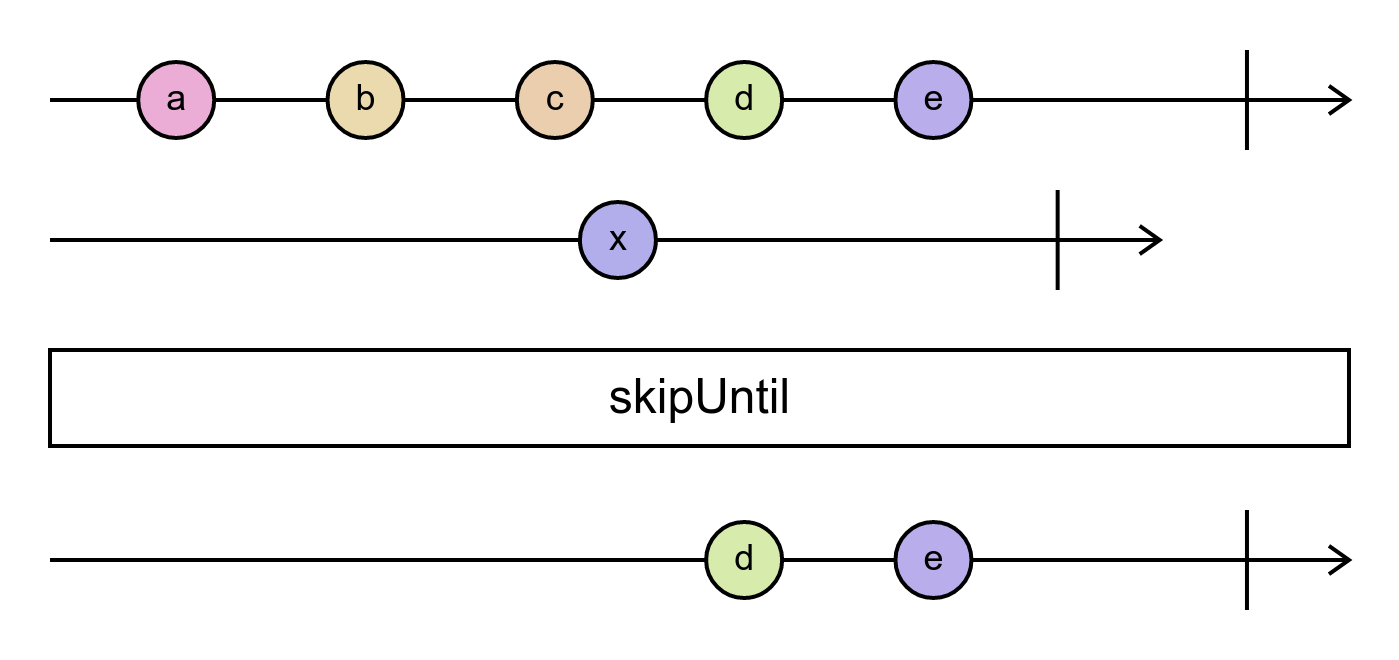
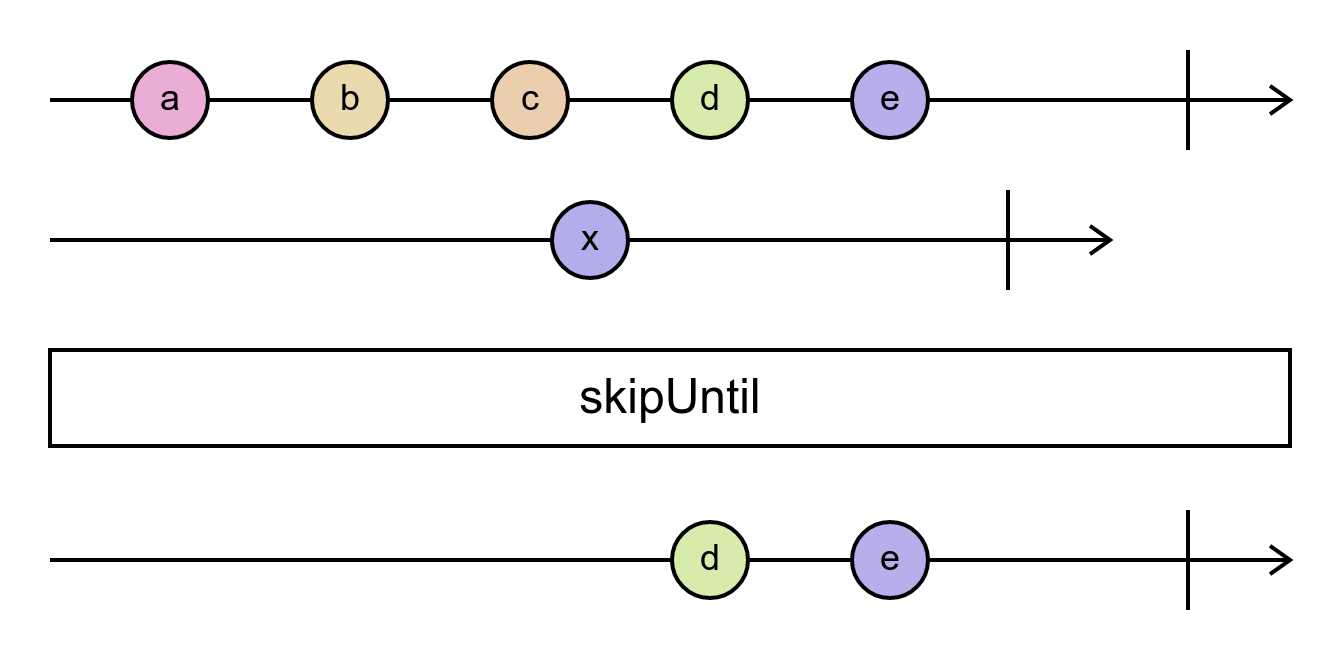
Fix higher-order scale

diff --git a/lib/draw/stream-factory.js b/lib/draw/stream-factory.js
@@ -30,8 +30,8 @@ const createDrawStream = drawMessage => (ctx, isHigherOrder, stream) => {
   const { document, styles } = ctx
 
   const scaleTime = isHigherOrder
-    ? nullScaleTime
-    : createScaleTime(styles.higher_order_angle)
+    ? createScaleTime(styles.higher_order_angle)
+    : nullScaleTime
 
   const $group = createElement(document, 'g')
   const bboxes = []
